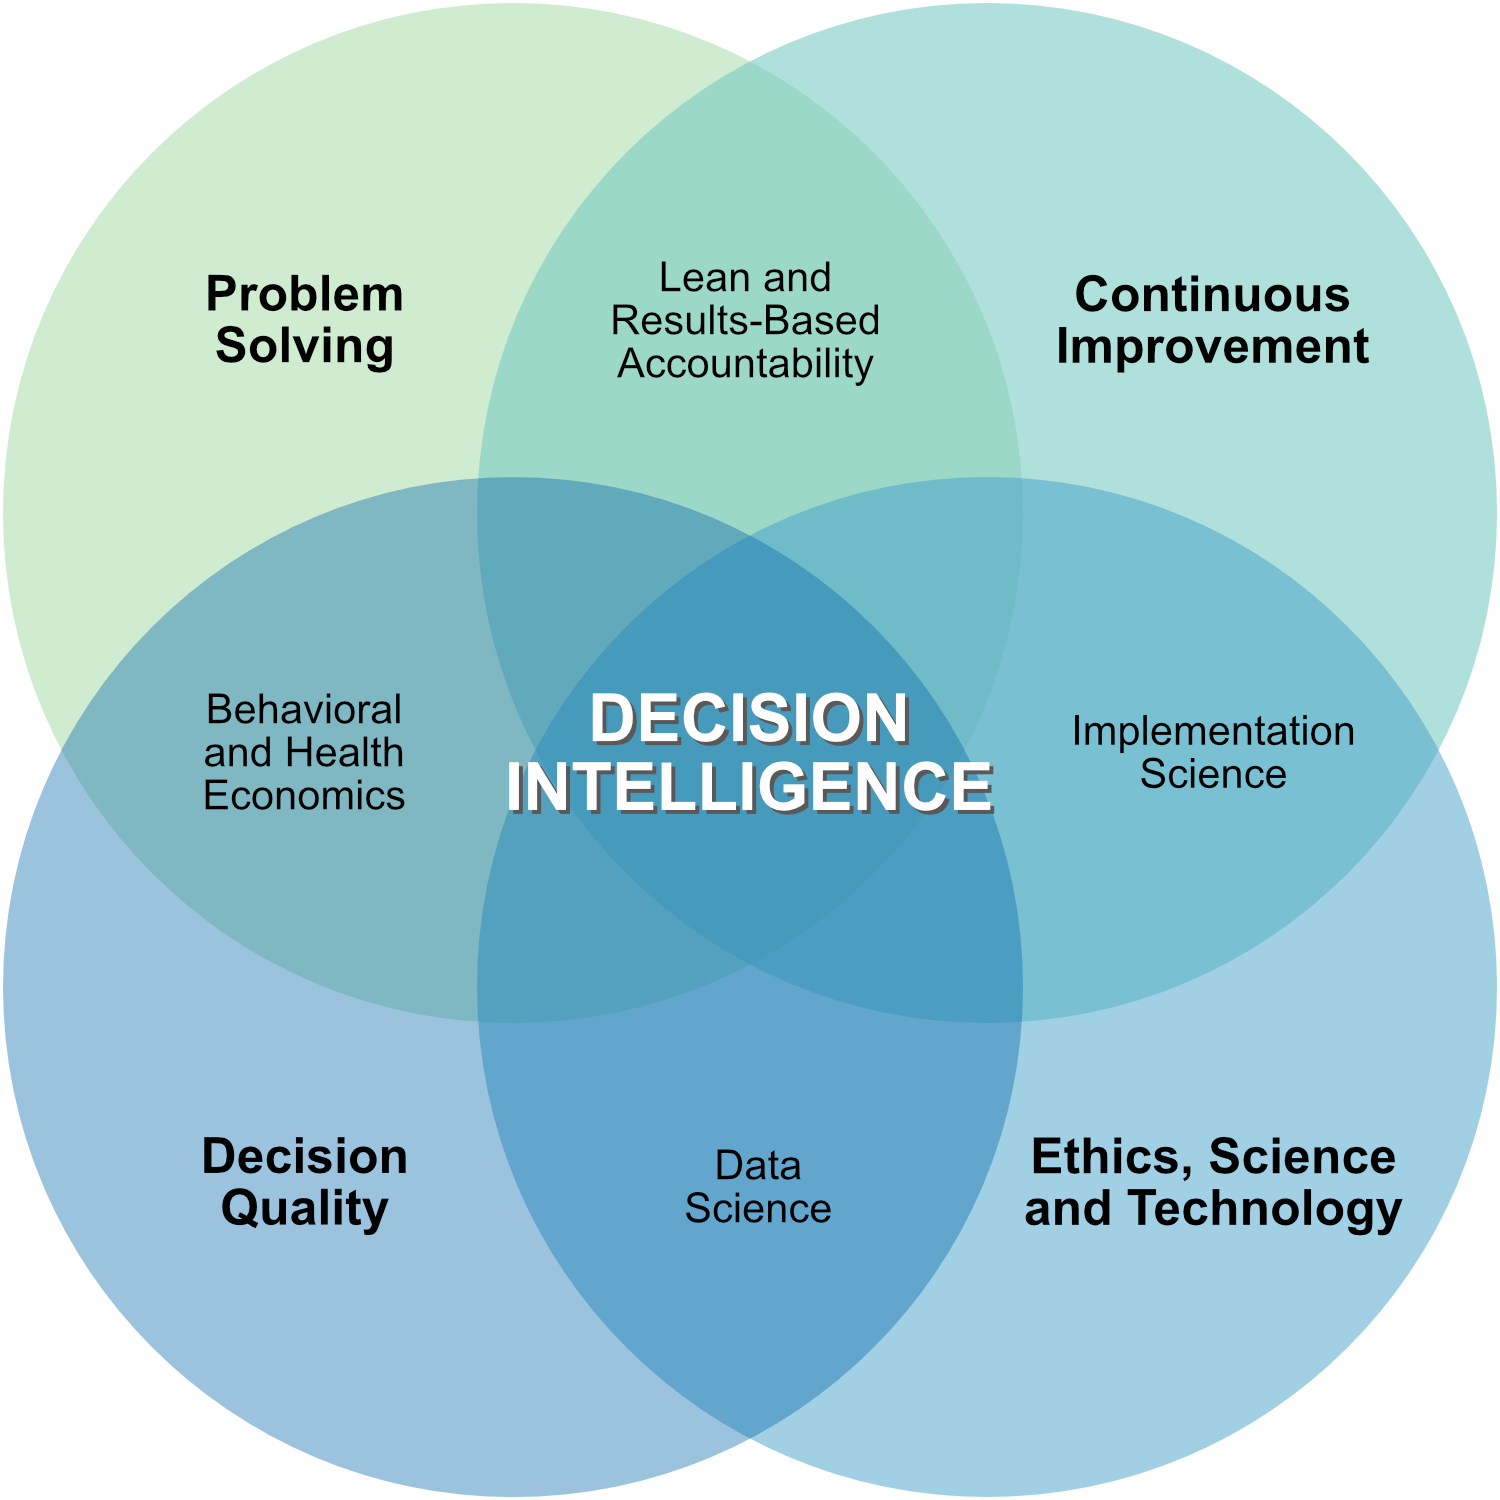
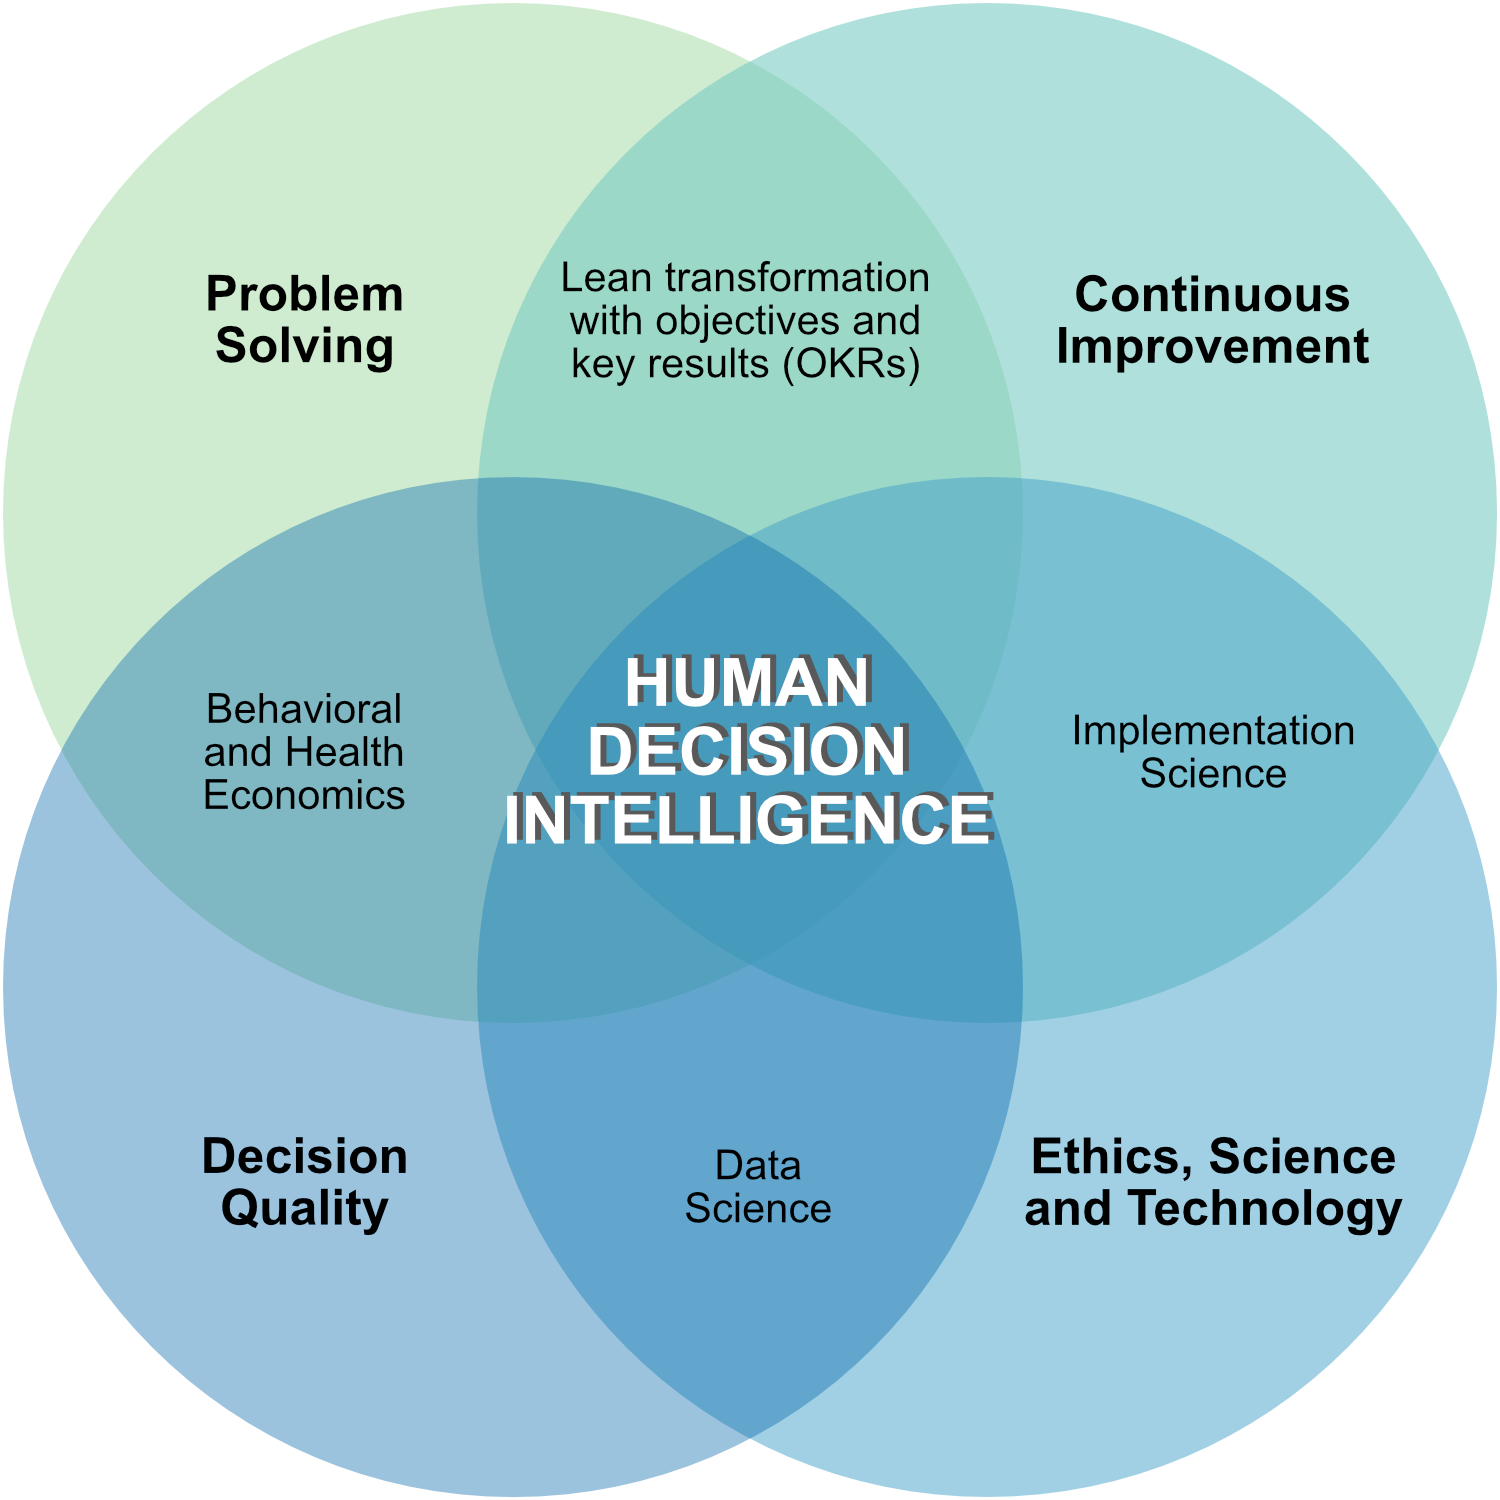
Update commit

Changed region(s): [[0.3373, 0.4293, 0.6747, 0.5827], [0.368, 0.1533, 0.6133, 0.276], [0.2147, 0.4907, 0.2453, 0.5213]]

diff --git a/posts/2022-08-20-decision-intelligence-books/index.html b/posts/2022-08-20-decision-intelligence-books/index.html
@@ -10,7 +10,7 @@
 <meta name="dcterms.date" content="2022-08-20">
 <meta name="description" content="Here are my favorite books for making better decisions.">
 
-<title>Dr.&nbsp;Tomás Aragón - Decision intelligence books</title>
+<title>Dr.&nbsp;Tomás Aragón - Books for human decision intelligence</title>
 <style>
 code{white-space: pre-wrap;}
 span.smallcaps{font-variant: small-caps;}
@@ -105,7 +105,7 @@ ga('send', {
 
 
 <link rel="stylesheet" href="../../styles.css">
-<meta name="twitter:title" content="Dr.&nbsp;Tomás Aragón - Decision intelligence books">
+<meta name="twitter:title" content="Dr.&nbsp;Tomás Aragón - Books for human decision intelligence">
 <meta name="twitter:description" content="Here are my favorite books for making better decisions.">
 <meta name="twitter:image" content="https://drtomasaragon.github.io/posts/2022-08-20-decision-intelligence-books/images/tja_book_decision_intelligence_venn_V04.png">
 <meta name="twitter:image-height" content="1500">
@@ -172,7 +172,7 @@ ga('send', {
 <header id="title-block-header" class="quarto-title-block default page-columns page-full">
   <div class="quarto-title-banner page-columns page-full">
     <div class="quarto-title column-body">
-      <h1 class="title">Decision intelligence books</h1>
+      <h1 class="title">Books for human decision intelligence</h1>
                   <div>
         <div class="description">
           <p>Here are my favorite books for making better decisions.</p>
@@ -268,6 +268,16 @@ Figure&nbsp;1: Decision intelligence is using ethics, science, and technology to
 <li>Hammond JS, Keeney RL, Raiffa H. <a href="https://www.amazon.com/Smart-Choices-Practical-Making-Decisions/dp/1633691047/">Smart Choices: A Practical Guide to Making Better Decisions</a>. Crown Business; 2002. <em>Classic book on making better decisions when faced with multiple competing objectives and trade-offs</em>.</li>
 <li>Keeney R. <a href="https://www.amazon.com/Give-Yourself-Nudge-Personal-Decisions/dp/1108715621/">Give Yourself a Nudge: Helping Smart People Make Smarter Personal and Business Decisions</a>. Cambridge University Press; 2020. <em>This book extends the Hammond book and includes how to influence others’ decisions that impact you</em>.</li>
 </ol>
+<div id="fig-decintell" class="quarto-figure quarto-figure-center quarto-float anchored">
+<figure class="quarto-float quarto-float-fig figure">
+<div aria-describedby="fig-decintell-caption-0ceaefa1-69ba-4598-a22c-09a6ac19f8ca">
+<img src="images/Annie-Duke_ThinkingInBets_VisualSummary-scaled.jpg" class="img-fluid figure-img" style="width:80.0%">
+</div>
+<figcaption class="quarto-float-caption-bottom quarto-float-caption quarto-float-fig" id="fig-decintell-caption-0ceaefa1-69ba-4598-a22c-09a6ac19f8ca">
+Figure&nbsp;2: Doug Neill’s brilliant visual summary of Annie Duke’s best-selling book “Thinking in Bets: Making Smarter Decisions When You Don’t Have All the Facts”. Source: https://www.youtube.com/watch?v=H49lFODYp7g
+</figcaption>
+</figure>
+</div>
 </section>
 <section id="decision-making-under-deep-uncertainty-including-in-crises" class="level2">
 <h2 class="anchored" data-anchor-id="decision-making-under-deep-uncertainty-including-in-crises">Decision making under deep uncertainty (including in crises)</h2>

diff --git a/index.html b/index.html
@@ -649,7 +649,7 @@ Tomás Aragón
 </a>
 </div>
 </div>
-<div class="quarto-post image-right" data-index="8" data-categories="Book recommendations,Decision intelligence,Behavioral economics,Decision analysis" data-listing-date-sort="1660978800000" data-listing-file-modified-sort="1707375051570" data-listing-date-modified-sort="NaN" data-listing-reading-time-sort="8" data-listing-word-count-sort="1521">
+<div class="quarto-post image-right" data-index="8" data-categories="Book recommendations,Decision intelligence,Behavioral economics,Decision analysis" data-listing-date-sort="1660978800000" data-listing-file-modified-sort="1713075389675" data-listing-date-modified-sort="NaN" data-listing-reading-time-sort="8" data-listing-word-count-sort="1544">
 <div class="thumbnail">
 <p><a href="./posts/2022-08-20-decision-intelligence-books/index.html" class="no-external"></a></p><a href="./posts/2022-08-20-decision-intelligence-books/index.html" class="no-external">
 <p><img src="./posts/2022-08-20-decision-intelligence-books/images/tja_book_decision_intelligence_venn_V04.png" class="thumbnail-image"></p>
@@ -657,7 +657,7 @@ Tomás Aragón
 </div>
 <div class="body">
 <h3 class="no-anchor listing-title">
-<a href="./posts/2022-08-20-decision-intelligence-books/index.html" class="no-external">Decision intelligence books</a>
+<a href="./posts/2022-08-20-decision-intelligence-books/index.html" class="no-external">Books for human decision intelligence</a>
 </h3>
 <div class="listing-subtitle">
 <a href="./posts/2022-08-20-decision-intelligence-books/index.html" class="no-external"></a>
